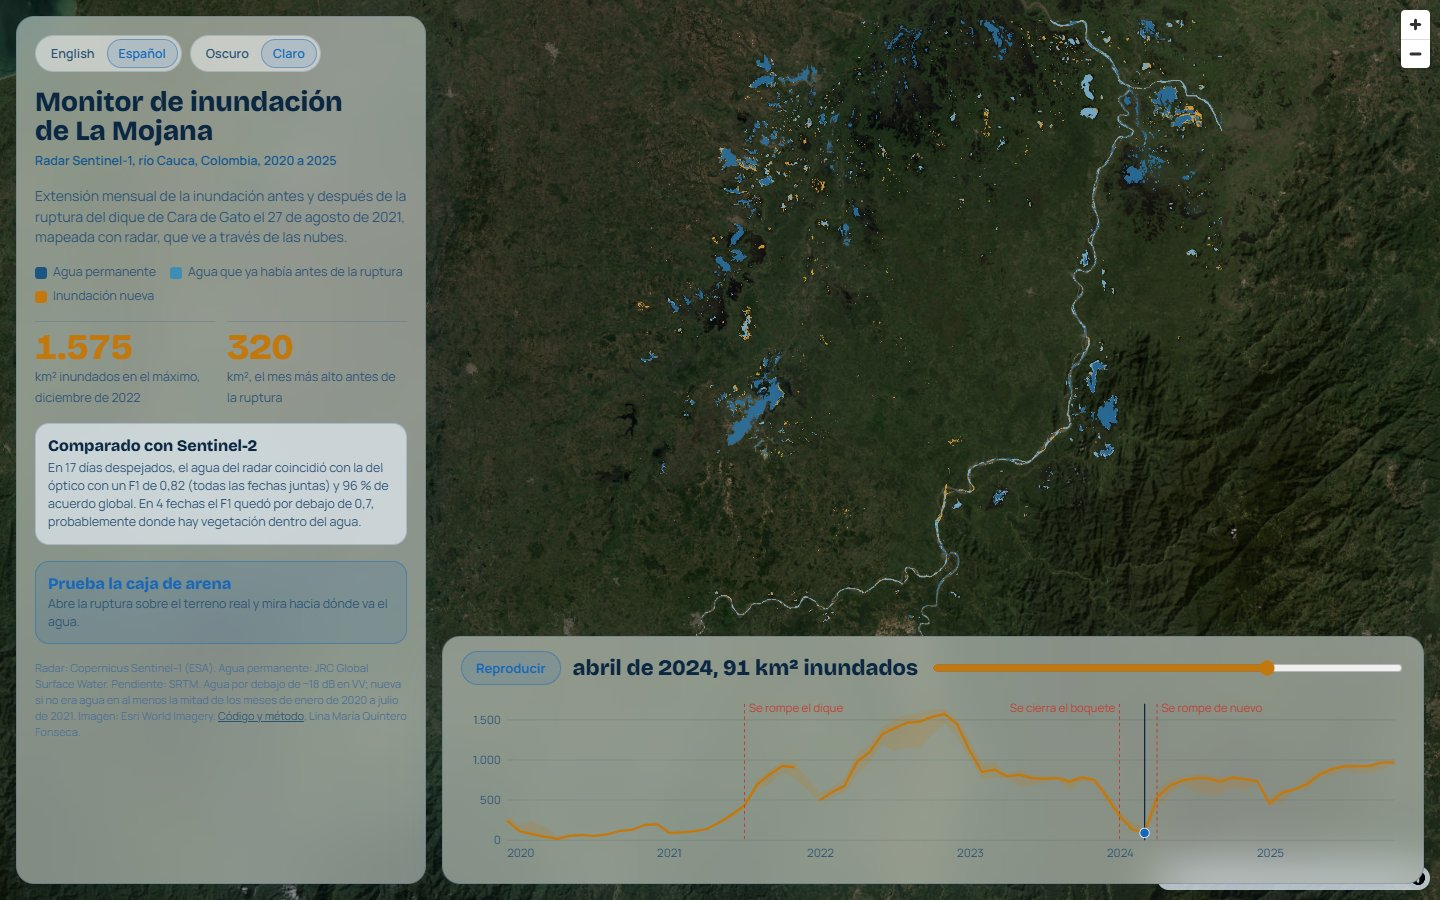
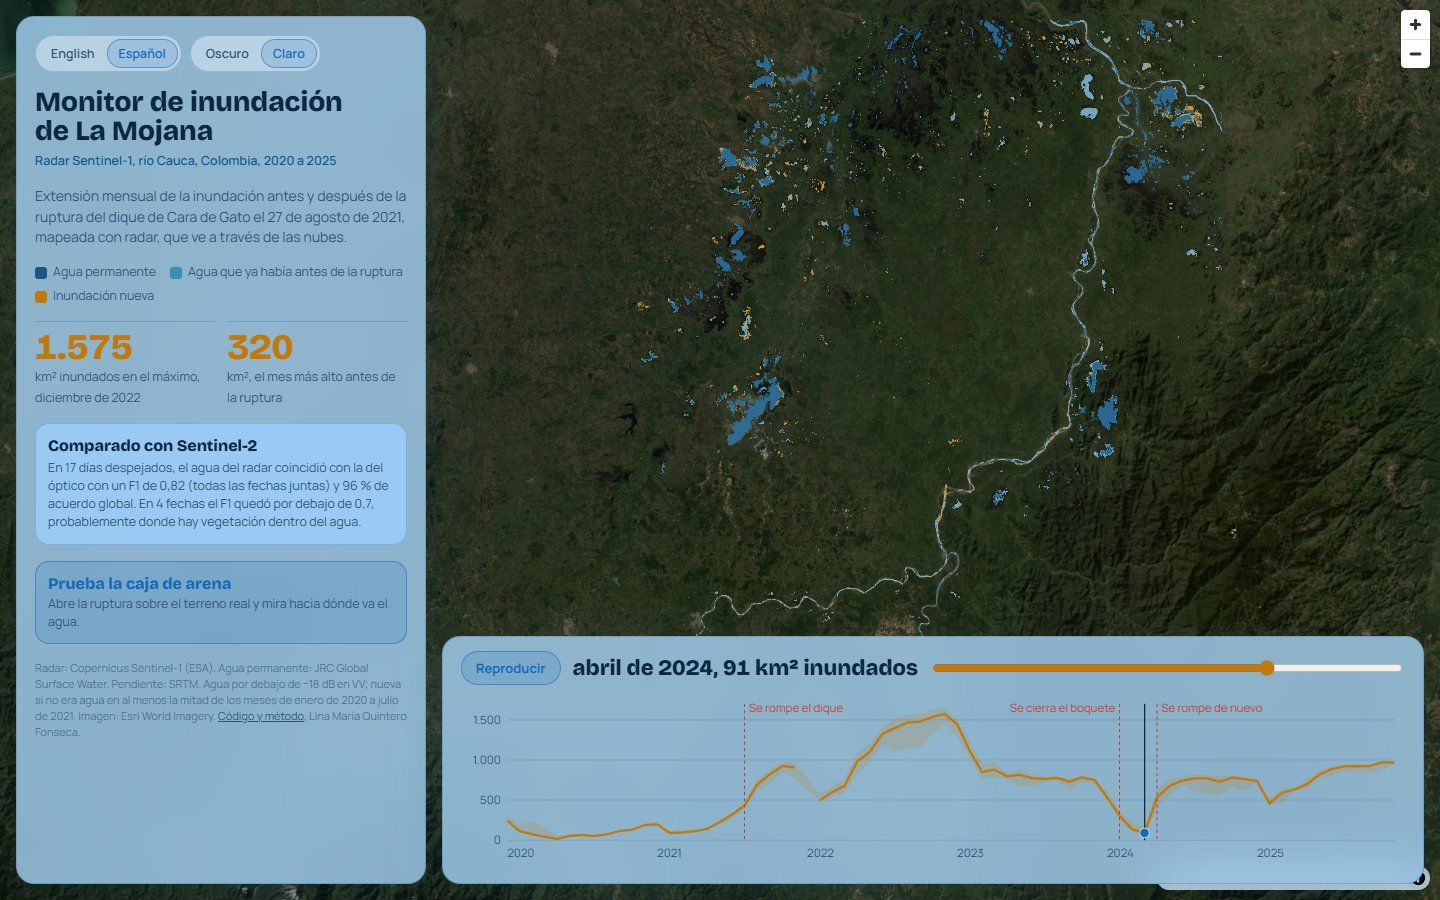
Light theme: clearer sky-blue glass

diff --git a/docs/index.html b/docs/index.html
@@ -19,11 +19,11 @@
   --display:"Bricolage Grotesque","Manrope",system-ui,sans-serif; --body:"Manrope",system-ui,sans-serif;
 }
 :root[data-theme="light"]{
-  --bg:#c9e2f5; --bg2:#f2f9ff; --glass:rgba(244,250,255,.5); --glass-strong:rgba(236,246,255,.64); --line:rgba(20,70,120,.18);
+  --bg:#b4d8f5; --bg2:#e3f2ff; --glass:rgba(168,212,250,.8); --glass-strong:rgba(156,204,248,.88); --line:rgba(20,80,140,.22);
   --ink:#0b2742; --muted:#2c5274; --faint:#4f7092; --gold1:#1667b8; --gold2:#11558f;
   --flood:#c2780c; --before:#3d8db4; --perm:#1b5582; --event:#c23b30;
-  --chip:rgba(255,255,255,.5); --grid:rgba(11,39,66,.12); --shadow:0 18px 50px rgba(20,70,120,.16);
-  --on:rgba(22,103,184,.13); --on-line:rgba(22,103,184,.45); --attrib:rgba(244,250,255,.8);
+  --chip:rgba(235,246,255,.45); --grid:rgba(11,39,66,.12); --shadow:0 18px 50px rgba(20,70,120,.18);
+  --on:rgba(22,103,184,.16); --on-line:rgba(22,103,184,.5); --attrib:rgba(214,236,253,.85);
 }
 *{box-sizing:border-box}
 html,body{margin:0;height:100%;background:radial-gradient(ellipse 90% 80% at 68% 42%,var(--bg2),var(--bg) 75%) fixed var(--bg);color:var(--ink);font-family:var(--body);font-size:14px;line-height:1.45}

diff --git a/docs/sandbox/index.html b/docs/sandbox/index.html
@@ -20,11 +20,11 @@
   --display:"Bricolage Grotesque","Manrope",system-ui,sans-serif; --body:"Manrope",system-ui,sans-serif;
 }
 :root[data-theme="light"]{
-  --bg:#c9e2f5; --bg2:#f2f9ff; --glass:rgba(244,250,255,.5); --glass-strong:rgba(236,246,255,.64); --line:rgba(20,70,120,.18);
+  --bg:#b4d8f5; --bg2:#e3f2ff; --glass:rgba(168,212,250,.8); --glass-strong:rgba(156,204,248,.88); --line:rgba(20,80,140,.22);
   --ink:#0b2742; --muted:#2c5274; --faint:#4f7092; --gold1:#1667b8; --gold2:#11558f;
   --flood:#c2780c; --before:#3d8db4; --perm:#1b5582; --event:#c23b30;
-  --chip:rgba(255,255,255,.5); --grid:rgba(11,39,66,.12); --shadow:0 18px 50px rgba(20,70,120,.16);
-  --on:rgba(22,103,184,.13); --on-line:rgba(22,103,184,.45); --attrib:rgba(244,250,255,.8);
+  --chip:rgba(235,246,255,.45); --grid:rgba(11,39,66,.12); --shadow:0 18px 50px rgba(20,70,120,.18);
+  --on:rgba(22,103,184,.16); --on-line:rgba(22,103,184,.5); --attrib:rgba(214,236,253,.85);
 }
 *{box-sizing:border-box}
 html,body{margin:0;height:100%;background:radial-gradient(ellipse 90% 80% at 68% 42%,var(--bg2),var(--bg) 75%) fixed var(--bg);color:var(--ink);font-family:var(--body);font-size:14px;line-height:1.45}
